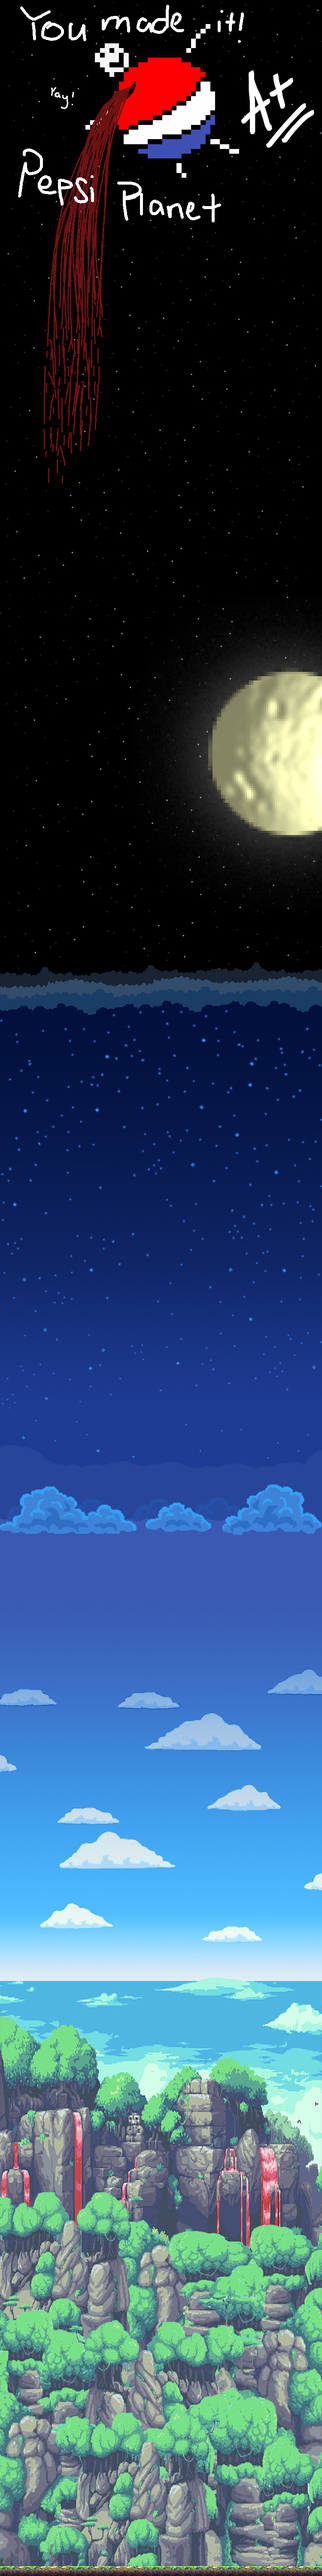
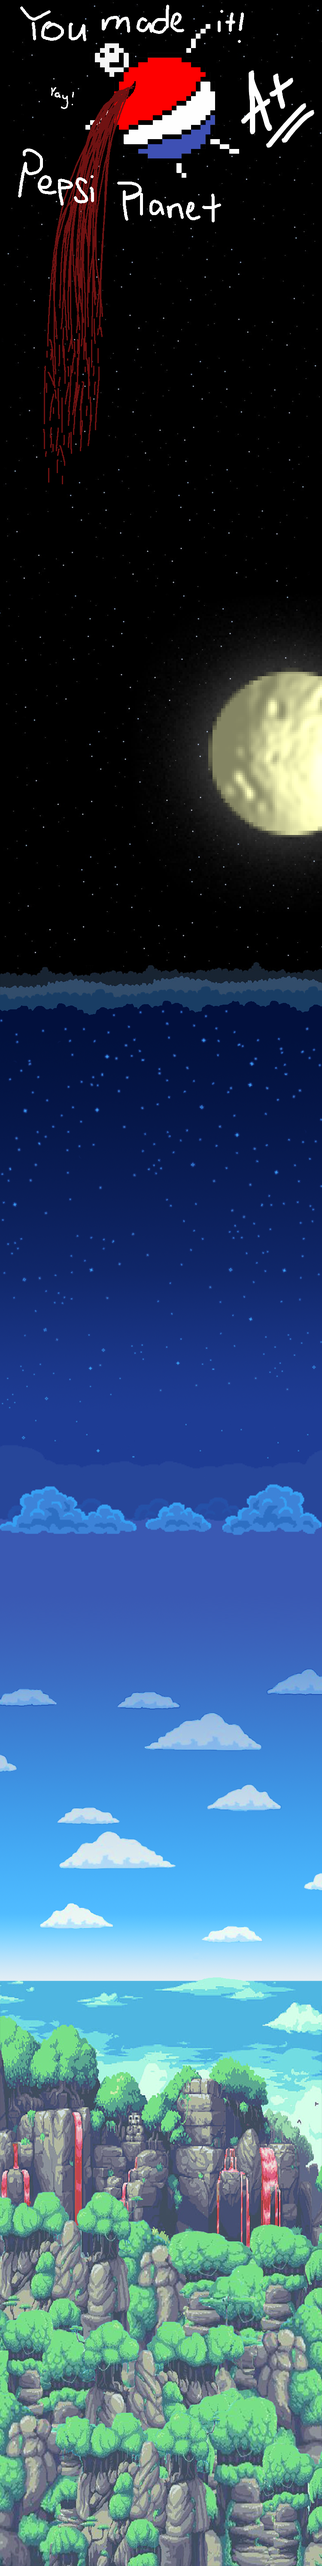
Created a background parallax effect

diff --git a/MainScene.cs b/MainScene.cs
@@ -8,7 +8,6 @@ using Nez.Sprites;
  * Make blocks random colors from set list
  * Make settings for adjusting rise rate & block spawn (maybe time scale?)
  * Adjust the rising rate more smartly
- * Add interesting background
  * Add sound (maybe music too?)
  */
 
@@ -49,7 +48,7 @@ namespace MarshmallowAvalanche {
         private bool isGameOver = false;
         private bool haveSetStartingHeight = false;
         private Score score;
-        private SpriteRenderer background;
+        private ParallaxEffect background;
         //private PrototypeSpriteRenderer scoreLine;
 
         public MainScene() : base() {
@@ -69,7 +68,7 @@ namespace MarshmallowAvalanche {
 
             AddRenderer(new RenderLayerExcludeRenderer(0, new int[] { GameUIOverlay.RenderLayer }));
             SetDesignResolution(GameRoot.DesiredWindowWidth, GameRoot.DesiredWindowHeight, SceneResolutionPolicy.ShowAll);
-            ClearColor = Color.CornflowerBlue;
+            ClearColor = Color.Black;
 
             score = Score.LoadData();
 
@@ -96,10 +95,17 @@ namespace MarshmallowAvalanche {
 
             gameOverlay = CreateEntity("game-overlay").AddComponent(new GameUIOverlay(score));
 
-            background = CreateEntity("background").AddComponent(new SpriteRenderer(Content.LoadTexture("background/full-background")));
+            background = CreateEntity("background").AddComponent(new ParallaxEffect(Content.LoadTexture("background/full-background"), new Vector2(20, 30)));
             background.RenderLayer = BackgroundRenderLayer;
             background.OriginNormalized = new Vector2(.5f, 1);
+            background.Transform.Scale = new Vector2(1.65f, 1.65f);
             background.Transform.Position = new Vector2(0, GameRoot.DesiredWindowHeight);
+            
+            SpriteRenderer ground = CreateEntity("ground-layer").AddComponent(new SpriteRenderer(Content.LoadTexture("background/ground")));
+            ground.RenderLayer = BackgroundRenderLayer - 1;
+            ground.OriginNormalized = new Vector2(.5f, 1);
+            ground.Transform.Scale = new Vector2(1.5f, 1);
+            ground.Transform.Position = background.Transform.Position;
 
             //scoreLine = CreateEntity("score-line").AddComponent<PrototypeSpriteRenderer>();
             //scoreLine.Color = Color.Yellow;
@@ -134,7 +140,7 @@ namespace MarshmallowAvalanche {
             }
 
             if (isSpawningBlocks && blockSpawnIncreaseTimer < 0) {
-                blockSpawnInterval -= .005f;
+                blockSpawnInterval -= .0075f;
                 blockSpawnInterval = System.Math.Max(.15f, blockSpawnInterval);
                 blockSpawnIncreaseTimer = blockSpawnIncreaseInterval;
             }

diff --git a/ParallaxEffect.cs b/ParallaxEffect.cs
@@ -1,0 +1,33 @@
+using System;
+using Microsoft.Xna.Framework;
+using Microsoft.Xna.Framework.Graphics;
+using Nez;
+using Nez.Sprites;
+
+
+namespace MarshmallowAvalanche {
+    public class ParallaxEffect : SpriteRenderer {
+        public Vector2 Speed { get; set; }
+
+        private Vector2 offset;
+        private Vector2 prevCamPosition;
+
+        public ParallaxEffect(Texture2D texture, Vector2 speed) : base(texture) {
+            Speed = speed;
+            offset = Vector2.Zero;
+            prevCamPosition = new Vector2(float.MinValue, float.MinValue);
+        }
+
+        public override void Render(Batcher batcher, Camera camera) {
+            if (prevCamPosition.X != float.MinValue) {
+                Vector2 direction = prevCamPosition - camera.Position;
+                offset += direction * Speed * Time.DeltaTime;
+            }
+
+            batcher.Draw(Sprite, Entity.Transform.Position + LocalOffset - offset, Color,
+                Entity.Transform.Rotation, Origin, Entity.Transform.Scale, SpriteEffects, _layerDepth);
+
+            prevCamPosition = camera.Position;
+        }
+    }
+}
